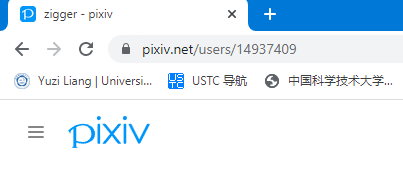
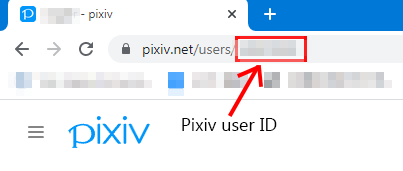
update

Changed region(s): [[0.4169, 0.2047, 0.9826, 0.7895], [0.0298, 0.4094, 0.3871, 0.5263], [0.0893, 0.0292, 0.2084, 0.1462]]

diff --git a/README.md b/README.md
@@ -21,5 +21,7 @@ userID = ''
 cookie = ''
 ```
 
-Enter your Pixiv id, it can be found on your Pixiv homepage: 
+Enter your Pixiv id, which can be found on your Pixiv homepage: 
+
+<img src="\image\1.png" style="zoom:100%;" />
 
